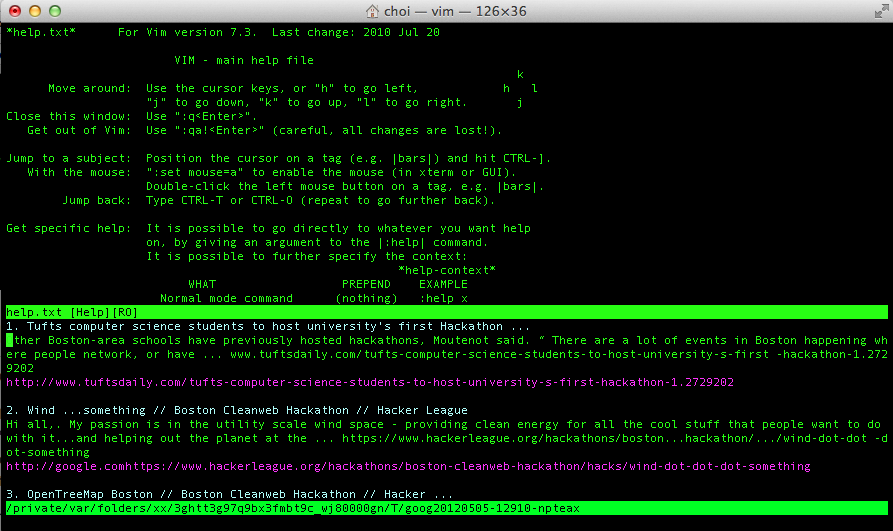
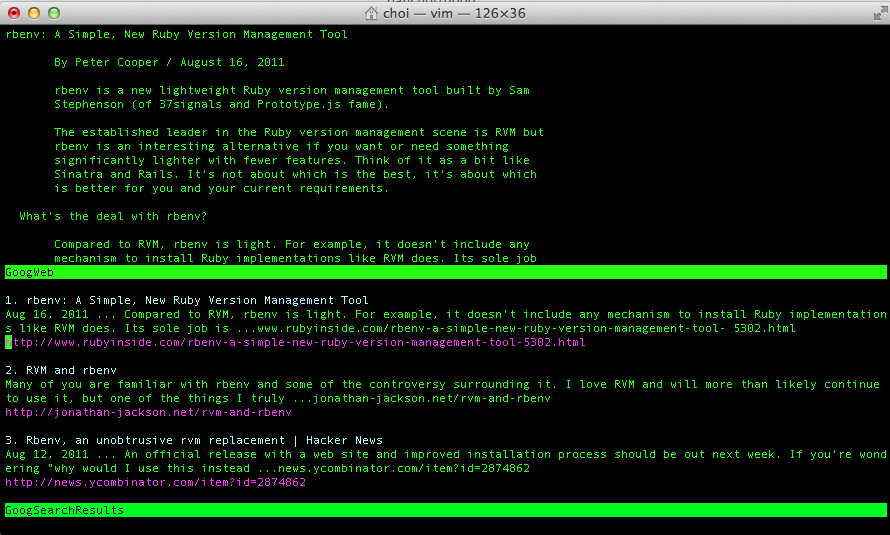
new screenshot and caption

Changed region(s): [[0.0, 0.1507, 1.0, 0.9944], [0.0, 0.0, 1.0, 0.1205]]

diff --git a/README.md b/README.md
@@ -19,10 +19,8 @@ Pure command line mode:
 
 ![screenshot](https://github.com/danchoi/goog/raw/master/screenshot.png)
 
-goog in Vim mode. (Search command: `goog -v -d m boston hackathon`)
-
-You can move the cursor on or before the link you want to
-open in your browser, and then press `<leader>o` to open it.
+goog as a Vim plugin, showing search results at the bottom, and a web pages opened inside 
+the Vim session with the goog keybinding `<leader>O`.
 
 ![screenshot](https://github.com/danchoi/goog/raw/master/screenshot-vim.png)
 
@@ -37,7 +35,7 @@ open in your browser, and then press `<leader>o` to open it.
 ```
 Usage: goog [options] [query]
     -h, --help                       Show this message
-    -d, --date-range [DATE RANGE]    Show results for date range. See below for options.
+    
     -n, --num-pages [NUM PAGES]      Show NUM PAGES pages of results
     -c, --color                      Force color output
     -v, --vim                        Open results in Vim and bind <leader>o to open URL on or after cursor
